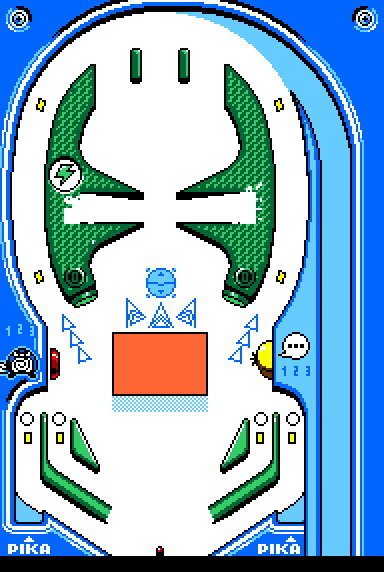
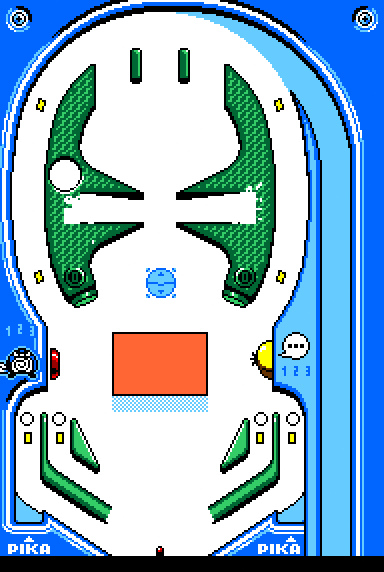
Arrows sort of working

diff --git a/code/fields/arrows.js b/code/fields/arrows.js
@@ -1,7 +1,7 @@
-const RED_FIELD_ARROWS_BLINK_RATE = 40;
-const RED_FIELD_ARROWS_BLINK_HALF_RATE = 20;
+const FIELD_ARROWS_BLINK_RATE = 40;
+const FIELD_ARROWS_BLINK_HALF_RATE = 20;
 
-const RED_FIELD_ARROW_STATE = {
+const FIELD_ARROW_STATE = {
     NORMAL: "normal",
     TRAVEL_LEFT: "travel_left",
     TRAVEL_RIGHT: "travel_right",
@@ -10,32 +10,32 @@ const RED_FIELD_ARROW_STATE = {
 
 class Arrows {
     constructor() {
-        this.captureArrows = new Sprite(245, 324, 46, 68, "none");
+        this.captureArrows = this.getCaptureArrows();
         this.captureArrows.debug = DEBUG;
         this.captureArrows.layer = SCENARIO_LAYER;
         this.captureArrows.addAni("captureAnimation", this.getCaptureArrowAnimation());
         this.captureArrows.ani.playing = false;
 
-        this.rightInnerArrow = new Sprite(207, 284, 34, 32, "none");
+        this.rightInnerArrow = this.getRightInnerArrow();
         this.rightInnerArrow.debug = DEBUG;
         this.rightInnerArrow.layer = SCENARIO_LAYER;
         this.rightInnerArrow.addAni("rightInnerArrow", this.getRightInnerArrowAnimation());
         this.rightInnerArrow.ani.playing = false;
 
-        this.caveArrow = new Sprite(161, 315, 26, 22, "none");
+        this.caveArrow = this.getCaveArrows();
         this.caveArrow.debug = DEBUG;
         this.caveArrow.layer = SCENARIO_LAYER;
         this.caveArrow.addAni("caveArrow", this.getCaveArrowAnimation());
         this.caveArrow.ani.playing = false;
         this.caveActive = false;
 
-        this.leftInnerArrow = new Sprite(113, 284, 34, 32, "none");
+        this.leftInnerArrow = this.getLeftInnerArrow();
         this.leftInnerArrow.debug = DEBUG;
         this.leftInnerArrow.layer = SCENARIO_LAYER;
         this.leftInnerArrow.addAni("leftInnerArrow", this.getLeftInnerArrowAnimation());
         this.leftInnerArrow.ani.playing = false;
 
-        this.evolutionArrows = new Sprite(75, 324, 46, 68, "none");
+        this.evolutionArrows = this.getEvolutionArrows();
         this.evolutionArrows.debug = DEBUG;
         this.evolutionArrows.layer = SCENARIO_LAYER;
         this.evolutionArrows.addAni("evolutionArrows", this.getEvolutionArrowAnimation());
@@ -45,17 +45,17 @@ class Arrows {
     }
 
     update(visible) {
-        if (this.state === RED_FIELD_ARROW_STATE.NORMAL) {
+        if (this.state === FIELD_ARROW_STATE.NORMAL) {
             this.blinkCaptureArrows(visible);
             this.blinkEvolutionArrows(visible);
             this.blinkBellsproutArrow(visible);
             this.blinkCaveArrow(visible);
             this.blinkLeftInnerArrow(visible);
-        } else if (this.state === RED_FIELD_ARROW_STATE.TRAVEL_LEFT) {
+        } else if (this.state === FIELD_ARROW_STATE.TRAVEL_LEFT) {
             this.blinkTravelLeftArrows(visible);
-        } else if (this.state === RED_FIELD_ARROW_STATE.TRAVEL_RIGHT) {
+        } else if (this.state === FIELD_ARROW_STATE.TRAVEL_RIGHT) {
             this.blinkTravelRightArrows(visible);
-        } else if (this.state === RED_FIELD_ARROW_STATE.TRAVEL_CAVE) {
+        } else if (this.state === FIELD_ARROW_STATE.TRAVEL_CAVE) {
             this.blinkTravelCaveArrows(visible);
         }
     }
@@ -63,7 +63,7 @@ class Arrows {
     blinkCaptureArrows(visible) {
         if (visible) {
             if (this.captureArrowsLevel < 3) {
-                frameCount % RED_FIELD_ARROWS_BLINK_RATE > RED_FIELD_ARROWS_BLINK_HALF_RATE ?
+                frameCount % FIELD_ARROWS_BLINK_RATE > FIELD_ARROWS_BLINK_HALF_RATE ?
                     this.captureArrows.ani.frame = this.captureArrowsLevel :
                     this.captureArrows.ani.frame = this.captureArrowsLevel + 1;
             }else{
@@ -82,8 +82,8 @@ class Arrows {
 
     blinkEvolutionArrows(visible) {
         if (visible) {
-            if (this.evolutionArrowsLevel < 4) {
-                frameCount % RED_FIELD_ARROWS_BLINK_RATE > RED_FIELD_ARROWS_BLINK_HALF_RATE ?
+            if (this.evolutionArrowsLevel < this.evolutionArrows.ani.length -1) {
+                frameCount % FIELD_ARROWS_BLINK_RATE > FIELD_ARROWS_BLINK_HALF_RATE ?
                     this.evolutionArrows.ani.frame = this.evolutionArrowsLevel :
                     this.evolutionArrows.ani.frame = this.evolutionArrowsLevel + 1;
             }
@@ -94,7 +94,7 @@ class Arrows {
 
     blinkBellsproutArrow(visible) {
         if (visible) {
-            frameCount % RED_FIELD_ARROWS_BLINK_RATE > RED_FIELD_ARROWS_BLINK_HALF_RATE ?
+            frameCount % FIELD_ARROWS_BLINK_RATE > FIELD_ARROWS_BLINK_HALF_RATE ?
                 this.rightInnerArrow.ani.frame = 0 :
                 this.rightInnerArrow.ani.frame = (this.captureArrowsLevel >= 2 ? 1 : 0);
         } else {
@@ -104,7 +104,7 @@ class Arrows {
 
     blinkCaveArrow(visible) {
         if (visible) {
-            frameCount % RED_FIELD_ARROWS_BLINK_RATE > RED_FIELD_ARROWS_BLINK_HALF_RATE ?
+            frameCount % FIELD_ARROWS_BLINK_RATE > FIELD_ARROWS_BLINK_HALF_RATE ?
                 this.caveArrow.ani.frame = 0 :
                 this.caveArrow.ani.frame = this.caveActive ? 1 : 0;
         } else {
@@ -155,10 +155,10 @@ class Arrows {
 
     blinkTravelLeftArrows(visible) {
         if (visible) {
-            frameCount % RED_FIELD_ARROWS_BLINK_RATE > RED_FIELD_ARROWS_BLINK_HALF_RATE ?
+            frameCount % FIELD_ARROWS_BLINK_RATE > FIELD_ARROWS_BLINK_HALF_RATE ?
                 this.leftInnerArrow.ani.frame = 0 :
                 this.leftInnerArrow.ani.frame = 1;
-            frameCount % RED_FIELD_ARROWS_BLINK_RATE > RED_FIELD_ARROWS_BLINK_HALF_RATE ?
+            frameCount % FIELD_ARROWS_BLINK_RATE > FIELD_ARROWS_BLINK_HALF_RATE ?
                 this.evolutionArrows.ani.frame = 0 :
                 this.evolutionArrows.ani.frame = 1;
         } else {
@@ -173,10 +173,10 @@ class Arrows {
 
     blinkTravelRightArrows(visible) {
         if (visible) {
-            frameCount % RED_FIELD_ARROWS_BLINK_RATE > RED_FIELD_ARROWS_BLINK_HALF_RATE ?
+            frameCount % FIELD_ARROWS_BLINK_RATE > FIELD_ARROWS_BLINK_HALF_RATE ?
                 this.rightInnerArrow.ani.frame = 0 :
                 this.rightInnerArrow.ani.frame = 1;
-            frameCount % RED_FIELD_ARROWS_BLINK_RATE > RED_FIELD_ARROWS_BLINK_HALF_RATE ?
+            frameCount % FIELD_ARROWS_BLINK_RATE > FIELD_ARROWS_BLINK_HALF_RATE ?
                 this.captureArrows.ani.frame = 0 :
                 this.captureArrows.ani.frame = 1;
         } else {
@@ -192,7 +192,7 @@ class Arrows {
 
     blinkTravelCaveArrows(visible) {
         if (visible) {
-            frameCount % RED_FIELD_ARROWS_BLINK_RATE > RED_FIELD_ARROWS_BLINK_HALF_RATE ?
+            frameCount % FIELD_ARROWS_BLINK_RATE > FIELD_ARROWS_BLINK_HALF_RATE ?
                 this.caveArrow.ani.frame = 0 :
                 this.caveArrow.ani.frame = 1;
         } else {
@@ -215,22 +215,22 @@ class Arrows {
 
     setTravel(direction) {
         if (direction === TRAVEL_DIRECTION.LEFT) {
-            this.state = RED_FIELD_ARROW_STATE.TRAVEL_LEFT;
+            this.state = FIELD_ARROW_STATE.TRAVEL_LEFT;
         } else if (direction === TRAVEL_DIRECTION.RIGHT) {
-            this.state = RED_FIELD_ARROW_STATE.TRAVEL_RIGHT;
+            this.state = FIELD_ARROW_STATE.TRAVEL_RIGHT;
         } else if (direction === TRAVEL_DIRECTION.CAVE) {
-            this.state = RED_FIELD_ARROW_STATE.TRAVEL_CAVE;
+            this.state = FIELD_ARROW_STATE.TRAVEL_CAVE;
         }
     }
 
     resetFromTravel() {
-        this.state = RED_FIELD_ARROW_STATE.NORMAL;
+        this.state = FIELD_ARROW_STATE.NORMAL;
     }
 
     restart() {
         this.setCaptureArrowsLevel(2);
         this.setEvolutionArrowsLevel(0);
-        this.state = RED_FIELD_ARROW_STATE.NORMAL;
+        this.state = FIELD_ARROW_STATE.NORMAL;
     }
 
     getCaveArrowAnimation(){}

diff --git a/code/fields/blue/blueField.js b/code/fields/blue/blueField.js
@@ -14,8 +14,55 @@ class BlueField extends Field {
         BLUE_FIELD_GEOMETRY.forEach(p => this.createScenarioGeometry(p));
         this.bonusStages = BLUE_FIELD_BONUS_ORDER;
 
+        this.setupSensors();
+
         this.rightRubberBand = BlueFieldRubberBand.createLeftRubberBand();
         this.leftRubberBand = BlueFieldRubberBand.createRightRubberBand();
+    }
+
+    setupSensors() {
+        this.lastSensor;
+
+        this.rightLowerSensor = new Sensor(280, 276, () => {
+            this.lastSensor = this.rightLowerSensor;
+        });
+
+        this.rightUpperSensor = new Sensor(279, 104, () => {
+            if (this.lastSensor === this.rightLowerSensor) {
+                if (this.state === FIELD_STATE.TRAVEL_RIGHT) {
+                    this.startTravelCave();
+                } else if (this.state === FIELD_STATE.PLAYING) {
+                    this.arrows.upgradeCaptureArrows();
+                } else if (this.state === FIELD_STATE.EVOLUTION) {
+                    this.evolutionManager.recoverPokemon();
+                }
+            }
+            this.lastSensor = this.rightUpperSensor;
+        });
+
+        this.leftLowerSensor = new Sensor(38, 278, () => {
+            this.lastSensor = this.leftLowerSensor;
+        });
+
+        this.leftUpperSensor = new Sensor(41, 105, () => {
+            if (this.lastSensor === this.leftLowerSensor) {
+                if (this.state === FIELD_STATE.EVOLUTION) {
+                    this.evolutionManager.recoverPokemon();
+                } else if (this.state === FIELD_STATE.PLAYING) {
+                    this.arrows.upgradeEvolutionArrows();
+                }
+            }
+            this.lastSensor = this.leftUpperSensor;
+        });
+
+    }
+
+    
+    updateSensors() {
+        this.rightLowerSensor.update(this.getBall().sprite);
+        this.rightUpperSensor.update(this.getBall().sprite);
+        this.leftUpperSensor.update(this.getBall().sprite);
+        this.leftLowerSensor.update(this.getBall().sprite);
     }
 
     draw() {
@@ -25,8 +72,8 @@ class BlueField extends Field {
     getLeftMultiplierTarget() { return BlueFieldMultiplierTarget.createLeftMultiplierTarget(this.onLeftMultiplierHitCallback); }
     getArrows() { return new BlueFieldArrows(); }
     getRightMultiplierTarget() { return BlueFieldMultiplierTarget.createRightMultiplierTarget(this.onRightMultiplierHitCallback); }
-    getBallUpgraderManager() { return BallUpgraderManager.createBlueFieldBallUpgraderManager();}
+    getBallUpgraderManager() { return BallUpgraderManager.createBlueFieldBallUpgraderManager(); }
     getPikachuSaverManager() { return PikachuSaverManager.createBlueFieldPikachuSaverManager(this.status); }
-    getScreenLandscapes() { return new BlueFieldScreenLandscapes();}
+    getScreenLandscapes() { return new BlueFieldScreenLandscapes(); }
 
 }

diff --git a/code/fields/blue/blueFieldArrows.js b/code/fields/blue/blueFieldArrows.js
@@ -3,9 +3,15 @@ class BlueFieldArrows extends Arrows {
     constructor() {
         super();
     }
-    
+
+    getCaptureArrows(){return new Sprite(243, 340, 30, 50, "none");}
+    getEvolutionArrows(){return new Sprite(77, 340, 30, 50, "none")}
+    getCaveArrows(){return new Sprite(161, 315, 26, 22, "none");}   
+    getLeftInnerArrow(){return new Sprite(136, 312, 20, 30, "none");}
+    getRightInnerArrow(){return new Sprite(186, 312, 20, 30, "none");}
+
     getCaveArrowAnimation(){return Asset.getAnimation("blueFieldCaveArrow")}
-    getRightInnerArrowAnimation(){return Asset.getAnimation("blueFieldBellsproutArrow")}
+    getRightInnerArrowAnimation(){return Asset.getAnimation("blueFieldRightInnerArrow")}
     getLeftInnerArrowAnimation(){return Asset.getAnimation("blueFieldLeftInnerArrow")}
     getCaptureArrowAnimation(){return Asset.getAnimation("blueFieldCaptureArrows")}
     getEvolutionArrowAnimation(){return Asset.getAnimation("blueFieldEvolutionArrows")}

diff --git a/code/fields/field.js b/code/fields/field.js
@@ -110,9 +110,10 @@ class Field extends Stage {
         this.caveDetectorManager.update(this.getBall().sprite);
         this.updateCave();
 
+        this.updateSensors();
+
         this.multiplierManager.update(this.getBall().sprite);
         this.pikachuSaverManager.update(this.getBall());
-        //TODO blue field ball upgrader manager
         this.ballUpgraderManager.update(this.getBall());
 
         this.leftRubberBand.update(this.getBall().sprite);
@@ -350,6 +351,7 @@ class Field extends Stage {
             this.multiplierManager.setInitialState();
             this.resetTravelTriggers();
             this.pikachuSaverManager.reset();
+            this.lastSensor = undefined;
             this.launchNewBall();
             this.arrows.setCaptureArrowsLevel(2);
             this.setState(FIELD_STATE.NEW_BALL_WAITING);
@@ -660,5 +662,7 @@ class Field extends Stage {
     onSpawnOnWell() { }
 
     playMusic() { }
+
+    updateSensors() {}
 
 }

diff --git a/code/engine/assetManager.js b/code/engine/assetManager.js
@@ -316,8 +316,8 @@ function preloadAnimations() {
 
   Asset.registerAnimationTemplate('blueFieldCaptureArrows', 'assets/img/blue-field/capture_arrows', 30, 50, 4);
   Asset.registerAnimationTemplate('blueFieldEvolutionArrows', 'assets/img/blue-field/evolution_arrows', 30, 50, 4);
-  Asset.registerAnimationTemplate('blueFieldBellsproutArrow', 'assets/img/blue-field/right_inner_arrow', 15, 10, 4);
-  Asset.registerAnimationTemplate('blueFieldLeftInnerArrow', 'assets/img/blue-field/left_inner_arrow', 15, 10, 4);
+  Asset.registerAnimationTemplate('blueFieldRightInnerArrow', 'assets/img/blue-field/right_inner_arrow', 20, 30, 4);
+  Asset.registerAnimationTemplate('blueFieldLeftInnerArrow', 'assets/img/blue-field/left_inner_arrow', 20, 30, 4);
   Asset.registerAnimationTemplate('blueFieldCaveArrow', 'assets/img/blue-field/cave_arrow', 26, 26, 4);
 
   Asset.registerAnimationTemplate('goToBonusMole', 'assets/img/field/go_to_bonus_mole', 96, 64, 1);

diff --git a/code/fields/red/redFieldArrows.js b/code/fields/red/redFieldArrows.js
@@ -3,6 +3,12 @@ class RedFieldArrows extends Arrows {
     constructor() {
         super();
     }
+
+    getCaptureArrows(){return new Sprite(245, 324, 46, 68, "none");}
+    getEvolutionArrows(){return new Sprite(75, 324, 46, 68, "none")}
+    getCaveArrows(){return new Sprite(161, 315, 26, 26, "none");}   
+    getLeftInnerArrow(){return new Sprite(113, 284, 34, 32, "none");}
+    getRightInnerArrow(){return new Sprite(207, 284, 34, 32, "none");}
     
     getCaveArrowAnimation(){return Asset.getAnimation("redFieldCaveArrow")}
     getRightInnerArrowAnimation(){return Asset.getAnimation("redFieldBellsproutArrow")}

diff --git a/code/fields/red/redField.js b/code/fields/red/redField.js
@@ -240,8 +240,6 @@ class RedField extends Field {
     draw() {
         super.draw();
 
-        this.updateSensors();
-
         this.leftTravelDiglett.update(this.getBall().sprite);
         this.rightTravelDiglett.update(this.getBall().sprite);
 
@@ -252,7 +250,6 @@ class RedField extends Field {
 
         this.updateDitto();
     }
-
 
 
     updateSensors() {

diff --git a/code/engine/cheatEngine.js b/code/engine/cheatEngine.js
@@ -1,5 +1,5 @@
 let SHOW_FPS = false; // true to show FPS
-let DEBUG = true; //true to start the game on debug mode
+let DEBUG = false; //true to start the game on debug mode
 
 const CheatEngine = {
 
